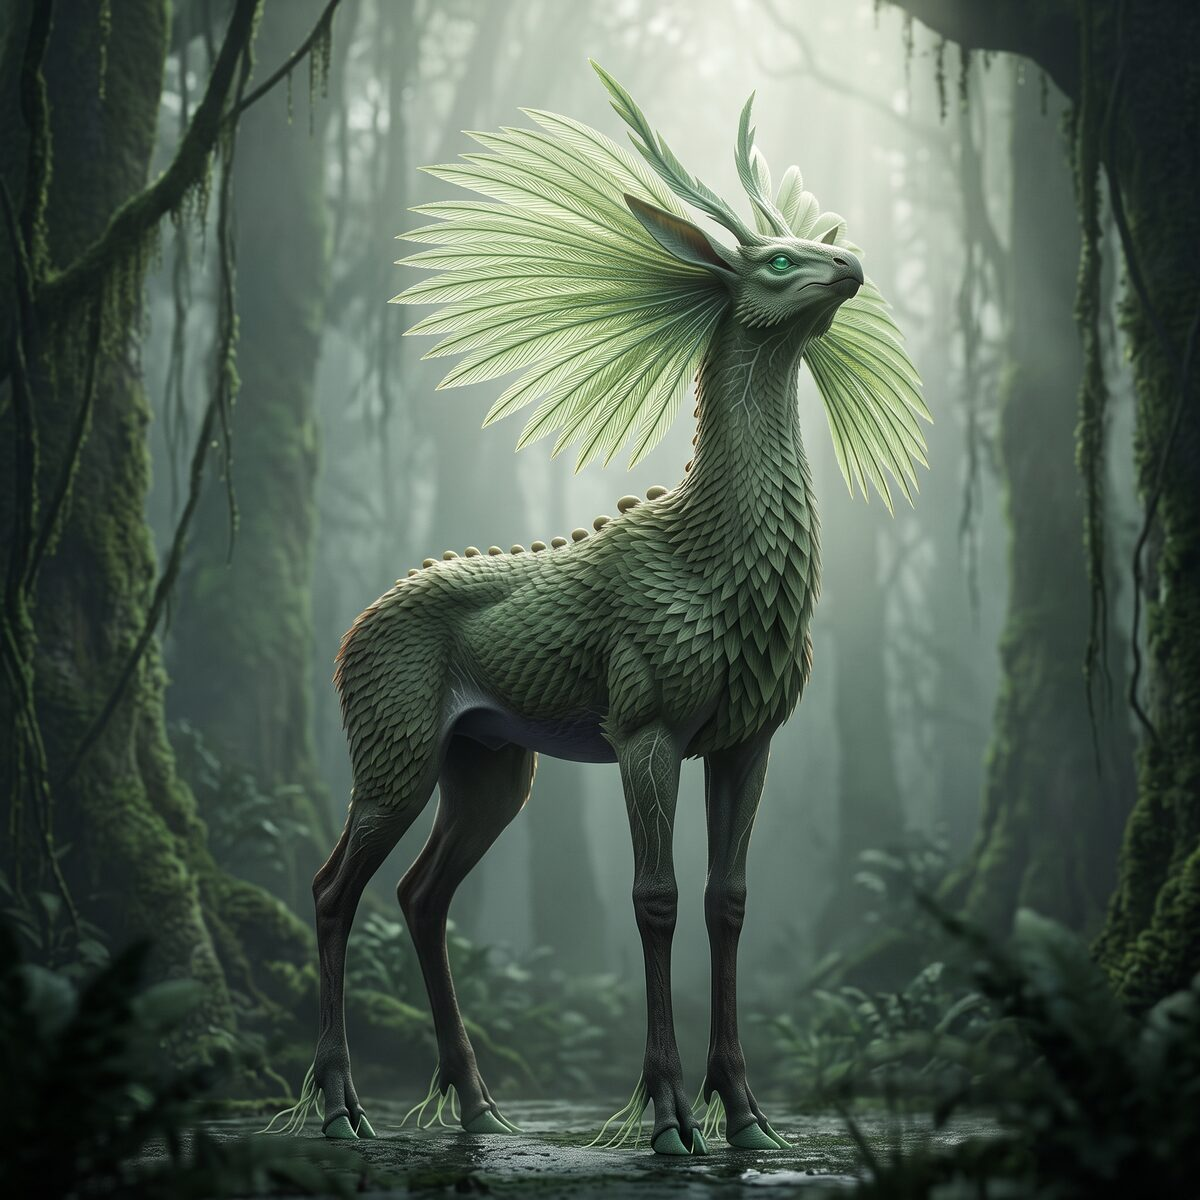
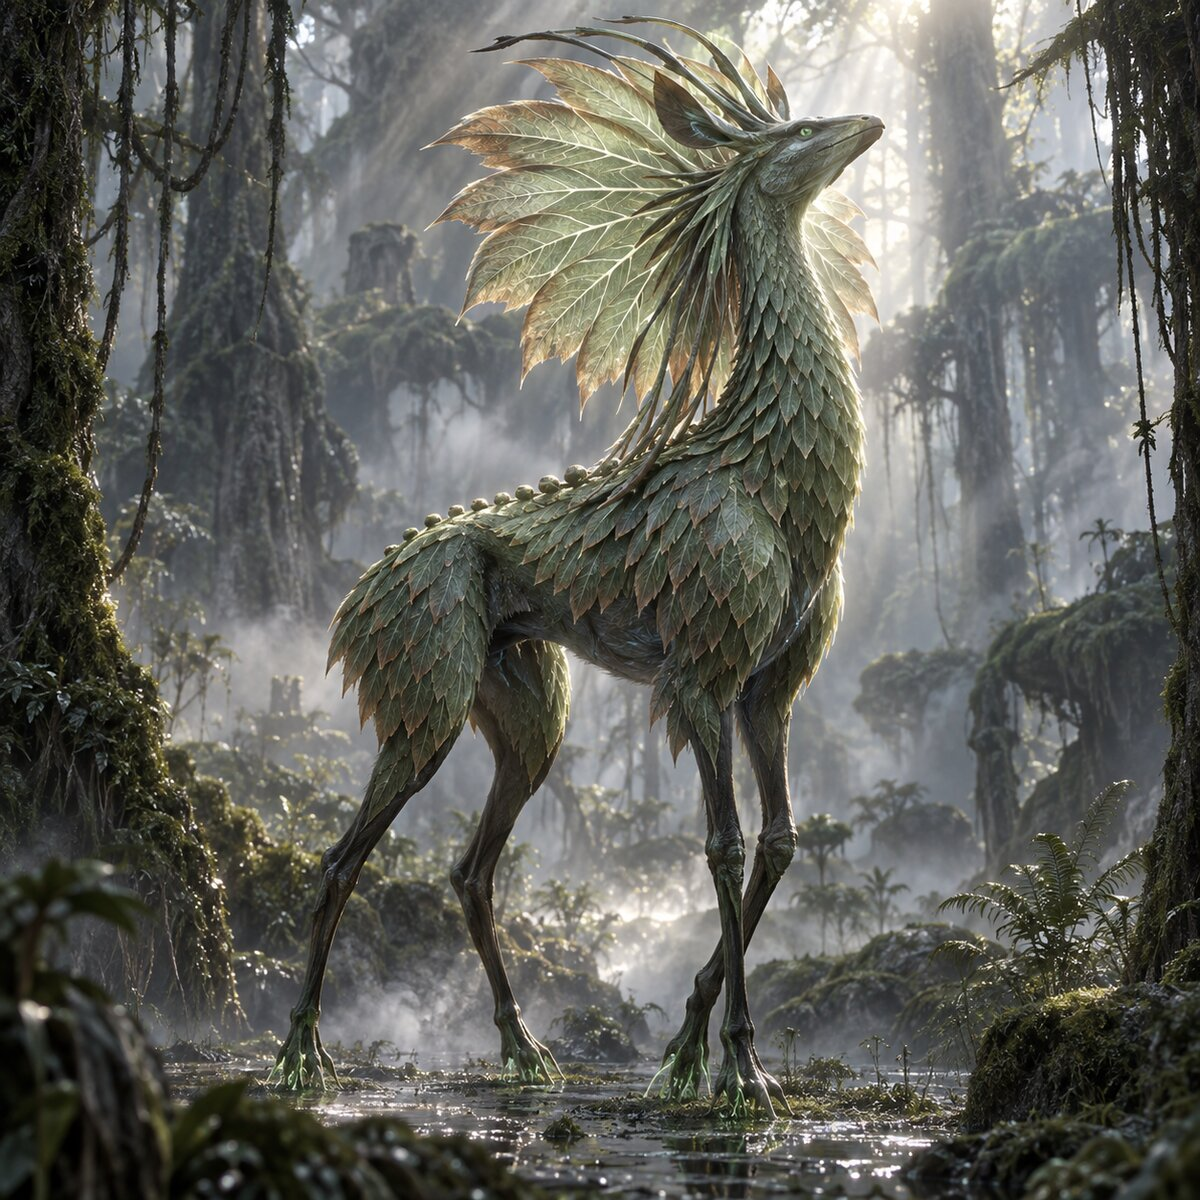
Update 6 creature portraits to latest prompt renders, add image-fix tool
karvos/luvenn/skyther/thessek/threndle/vorthak.jpg were stale renders
predating recent prompt edits (backlit-glare atmosphere pass). Replace
with the matching newer renders that were sitting as untracked .png
files, converted and compressed to the project's .jpg standard.

Add scripts/fix-image-assets.js: scans assets/creatures and
assets/world for .png/.webp/.jpeg files not yet converted to the
expected .jpg path, and converts+compresses them (resize <=1200px,
quality 85, strip metadata). Defaults to a safe dry-run and skips
existing .jpg targets unless --overwrite is passed, so this class of
bug (asset generated but never converted/renamed, as with Nethrix
and these 6) can be caught and fixed with one command going forward.

diff --git a/scripts/fix-image-assets.js b/scripts/fix-image-assets.js
@@ -1,0 +1,113 @@
+#!/usr/bin/env node
+/*
+  หา asset รูปภาพใน assets/ ที่ยังไม่ใช่ .jpg (เช่น .png ที่หลุดมาจากขั้นตอน
+  generate แล้วไม่เคยถูกแปลง/ย่อขนาดให้ตรงกับที่โค้ดอ้างถึง) แล้วแปลง+บีบอัด
+  ให้เป็น .jpg ตามมาตรฐานของโปรเจกต์นี้โดยอัตโนมัติ — จุดกำเนิดบั๊กคือ
+  creatures/_imageLibrary.js (และไฟล์ world เทียบเท่า) อ้างถึง <name>.jpg
+  เสมอ แต่บางครั้งไฟล์ที่ generate ออกมาจริงเป็น .png ค้างอยู่ ทำให้ภาพ
+  404 บนเว็บจริงโดยไม่มีใครสังเกต (เคสแรกที่เจอ: nethrix.png)
+
+  มาตรฐานการบีบอัดของโปรเจกต์ (อ้างอิงจากไฟล์ .jpg ที่มีอยู่แล้ว):
+    - resize ให้ด้านยาวสุดไม่เกิน 1200px (ไม่ขยายภาพที่เล็กกว่าอยู่แล้ว)
+    - quality 85
+    - strip metadata
+
+  ใช้:
+    node scripts/fix-image-assets.js               → dry-run รายงานอย่างเดียว
+    node scripts/fix-image-assets.js --apply        → แปลงจริง + ลบไฟล์ต้นฉบับ
+                                                        (ข้ามไฟล์ที่มี .jpg ชื่อเดียวกันอยู่แล้ว)
+    node scripts/fix-image-assets.js --apply --overwrite
+                                                     → เหมือน --apply แต่ทับ .jpg เดิมด้วย
+                                                        ถ้ามีอยู่แล้ว (ใช้เมื่อ .png ที่เจอ
+                                                        คือ re-render ใหม่กว่าที่ตั้งใจแทนที่ของเดิม
+                                                        เช่น หลังแก้ prompt แล้ว generate ภาพใหม่)
+*/
+const fs = require("fs");
+const path = require("path");
+const { execFileSync } = require("child_process");
+
+const ROOT = path.join(__dirname, "..");
+const ASSET_DIRS = ["assets/creatures", "assets/world"];
+const CONVERTIBLE_EXT = [".png", ".webp", ".jpeg"];
+const MAX_DIM = 1200;
+const QUALITY = 85;
+
+const apply = process.argv.includes("--apply");
+const overwrite = process.argv.includes("--overwrite");
+
+function findConvertibleFiles() {
+    const found = [];
+    ASSET_DIRS.forEach(rel => {
+        const dir = path.join(ROOT, rel);
+        if (!fs.existsSync(dir)) return;
+        fs.readdirSync(dir).forEach(name => {
+            const ext = path.extname(name).toLowerCase();
+            if (!CONVERTIBLE_EXT.includes(ext)) return;
+            const base = name.slice(0, -ext.length);
+            const jpgPath = path.join(dir, base + ".jpg");
+            found.push({
+                dir: rel,
+                srcName: name,
+                srcPath: path.join(dir, name),
+                jpgPath,
+                jpgExists: fs.existsSync(jpgPath)
+            });
+        });
+    });
+    return found;
+}
+
+function humanSize(bytes) {
+    return (bytes / 1024).toFixed(0) + "KB";
+}
+
+const files = findConvertibleFiles();
+
+if (!files.length) {
+    console.log("ไม่พบไฟล์ .png/.webp/.jpeg ค้างอยู่ใน assets/creatures หรือ assets/world — ผ่าน");
+    process.exit(0);
+}
+
+console.log(`พบไฟล์ที่ต้องแปลงเป็น .jpg ทั้งหมด ${files.length} ไฟล์:\n`);
+
+let converted = 0;
+let skipped = 0;
+
+files.forEach(f => {
+    if (f.jpgExists && !overwrite) {
+        console.log(`  ⚠ ข้าม ${f.dir}/${f.srcName} — มี ${path.basename(f.jpgPath)} อยู่แล้ว (รันด้วย --overwrite ถ้าตั้งใจให้ทับ)`);
+        skipped++;
+        return;
+    }
+
+    const beforeSize = fs.statSync(f.srcPath).size;
+
+    if (!apply) {
+        const note = f.jpgExists ? " (จะทับของเดิม — ใส่ --overwrite ตอน apply)" : "";
+        console.log(`  → ${f.dir}/${f.srcName} (${humanSize(beforeSize)}) จะถูกแปลงเป็น ${path.basename(f.jpgPath)}${note}`);
+        return;
+    }
+
+    try {
+        execFileSync("magick", [
+            f.srcPath,
+            "-resize", `${MAX_DIM}x${MAX_DIM}>`,
+            "-quality", String(QUALITY),
+            "-strip",
+            f.jpgPath
+        ], { stdio: "pipe" });
+
+        const afterSize = fs.statSync(f.jpgPath).size;
+        fs.unlinkSync(f.srcPath);
+        console.log(`  ✓ ${f.dir}/${f.srcName} (${humanSize(beforeSize)}) → ${path.basename(f.jpgPath)} (${humanSize(afterSize)})`);
+        converted++;
+    } catch (err) {
+        console.log(`  ✗ ${f.dir}/${f.srcName} แปลงไม่สำเร็จ: ${err.message.split("\n")[0]}`);
+    }
+});
+
+if (!apply) {
+    console.log(`\nนี่คือ dry-run — ไม่มีไฟล์ถูกแก้ไขจริง รันด้วย --apply เพื่อแปลงและลบไฟล์ต้นฉบับจริง`);
+} else {
+    console.log(`\nเสร็จแล้ว: แปลงสำเร็จ ${converted} ไฟล์, ข้าม ${skipped} ไฟล์`);
+}
